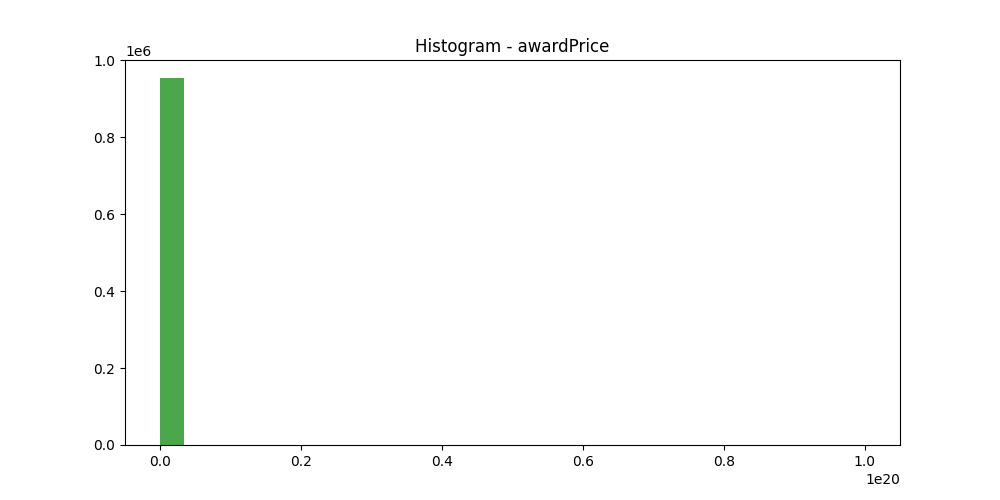
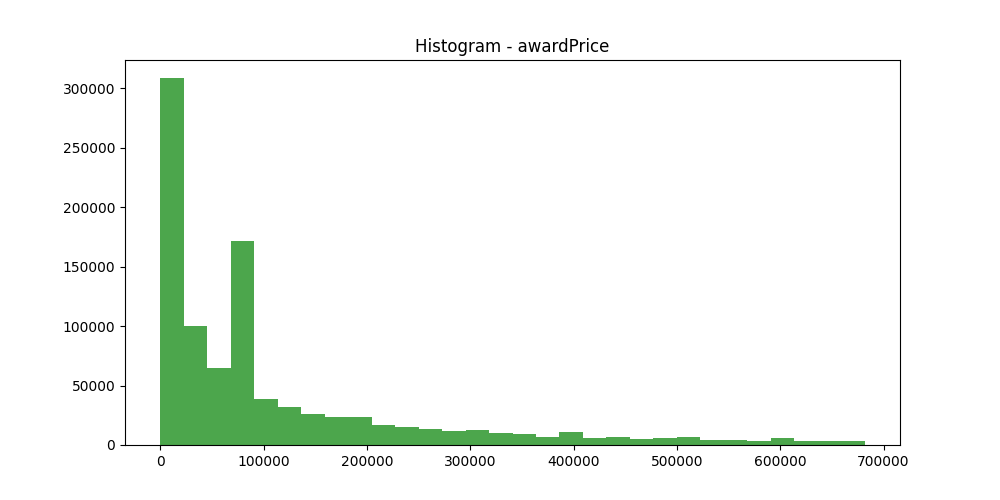
end of descriptive analysis

diff --git a/analyse_bivariee_manon.py b/analyse_bivariee_manon.py
@@ -16,7 +16,7 @@ import statsmodels.api as sm
 
 from pathlib import Path
 
-
+import scipy.stats as stats
 
 """
 
@@ -58,14 +58,45 @@ def verif_path(entire_path):
 
 
 
-def anova(xName, yName, allData):
-    #code taken from https://openclassrooms.com/fr/courses/7410486-nettoyez-et-analysez-votre-jeu-de-donnees/7428558-analysez-une-variable-quantitative-et-une-qualitative-par-anova
-    #colonne x quantitative, colonne y qualitative
-    
-   anova = smf.ols(xName+'~'+yName, data=allData).fit()
-   #print(sm.stats.anova_lm(anova, typ=2))
-   print(sm.stats.anova_lm(anova))
+# def anova(xName, yName, allData):
+#     #code taken from https://openclassrooms.com/fr/courses/7410486-nettoyez-et-analysez-votre-jeu-de-donnees/7428558-analysez-une-variable-quantitative-et-une-qualitative-par-anova
+#     #colonne x quantitative, colonne y qualitative
+#
+#    anova = smf.ols(xName+'~'+yName, data=allData).fit()
+#    #print(sm.stats.anova_lm(anova, typ=2))
+#    print(sm.stats.anova_lm(anova))
 
+def verif_anova(data, xName, yName):
+    # colonne x quantitative, colonne y qualitative
+
+    data_anova = data[[yName, xName]].dropna()
+
+    groupes = data_anova[yName].unique()
+    variances = []
+    for groupe in groupes:
+        variances.append(data_anova[data_anova[yName] == groupe][xName].var())
+
+    p_value_levene = stats.levene(*[data_anova[data_anova[yName] == groupe][xName] for groupe in groupes])[1]
+
+    p_value_shapiro = stats.shapiro(data_anova[xName])[1]
+
+    return p_value_levene > 0.05 and p_value_shapiro > 0.05
+
+
+def anova(xName, yName, allData):
+    # code taken from https://openclassrooms.com/fr/courses/7410486-nettoyez-et-analysez-votre-jeu-de-donnees/7428558-analysez-une-variable-quantitative-et-une-qualitative-par-anova
+    # colonne x quantitative, colonne y qualitative
+
+    print(verif_anova(allData, xName, yName))
+    if verif_anova(allData, xName, yName):
+        anova = smf.ols(xName + '~' + yName, data=allData).fit()
+        # print(sm.stats.anova_lm(anova, typ=2))
+        print(sm.stats.anova_lm(anova))
+    else:
+        data = allData[[yName, xName]].dropna()
+        F, p = stats.kruskal(*[group[xName].values for name, group in data.groupby(yName)])
+        print(xName, yName)
+        print(F, p)
 
 
 
@@ -89,7 +120,35 @@ def graph_violin(colonne_x, colonne_y, name_x, name_y, name_df, is_cleaned_data)
     plt.savefig(entire_path)
     
     #plt.show()
-    
+
+
+def graph_violin_log(colonne_x, colonne_y, name_x, name_y, name_df, df, is_cleaned_data):
+    # colonne_x qualitative, colonne_y quantitative
+
+    stats = df.groupby(name_x).agg({name_y: ['mean']})
+    print(stats)
+
+    plt.figure(figsize=(10, 6))
+
+    sns.violinplot(x=colonne_x, y=colonne_y, data=df)
+
+    for group, mean_value in stats.iterrows():
+        value = mean_value[name_y]['mean']
+        plt.axhline(value, color='r', linestyle='--', linewidth=1)
+
+    plt.yscale('log')
+
+    plt.title('Diagramme en violon log - ' + name_y + ' par ' + name_x)
+    plt.xlabel(name_x)
+    plt.ylabel(name_y)
+
+    entire_path = ''
+    if is_cleaned_data:
+        entire_path = '../descriptive_analysis/figs/bivarie/quantitativeVSqualitative/' + name_df + '/graph_violin_' + name_x + '_' + name_y + '.png'
+    else:
+        entire_path = 'figs/bivarie/quantitativeVSqualitative/' + name_df + '/graph_violin_' + name_x + '_' + name_y + '.png'
+    verif_path(entire_path)
+    plt.savefig(entire_path)
     
     
     
@@ -133,10 +192,10 @@ def analyse_lots(df_lots, is_cleaned_data):
     colonne_cancelled = df_lots['cancelled']
     colonne_contractorSme = df_lots['contractorSme']
     
-    graph_violin(colonne_typeOfContract, colonne_contractDuration, "typeOfContract", "contractDuration", nameDf, is_cleaned_data)
-    graph_violin(colonne_cpv, colonne_contractDuration, "cpv", "contractDuration", nameDf, is_cleaned_data)
-    graph_violin(colonne_typeOfContract, colonne_publicityDuration, "typeOfContract", "publicityDuration", nameDf, is_cleaned_data)
-    graph_violin(colonne_cancelled, colonne_awardPrice, "cancelled", "awardPrice", nameDf, is_cleaned_data)
+    graph_violin_log(colonne_typeOfContract, colonne_contractDuration, "typeOfContract", "contractDuration", nameDf, df_lots.copy(), is_cleaned_data)
+    graph_violin_log(colonne_cpv, colonne_contractDuration, "cpv", "contractDuration", nameDf, df_lots.copy(), is_cleaned_data)
+    graph_violin_log(colonne_typeOfContract, colonne_publicityDuration, "typeOfContract", "publicityDuration", nameDf, df_lots.copy(), is_cleaned_data)
+    graph_violin_log(colonne_cancelled, colonne_awardPrice, "cancelled", "awardPrice", nameDf, df_lots.copy(), is_cleaned_data)
     
     
     nouveau_dataframe = df_lots[['typeOfContract', 'contractDuration', 'publicityDuration', 'cpv', 'awardPrice', 'cancelled', 'contractorSme']].copy()

diff --git a/main.py b/main.py
@@ -36,15 +36,15 @@ df_names = pd.read_csv('data/Names.csv')
 
 
 if __name__ == '__main__':
-    # analyse_univariee_manon.execute_file(df_lots, df_buyers, df_suppliers, df_criteria, df_names, is_cleaned_data=False)
-    # analyse_bivariee_manon.execute_file(df_lots, is_cleaned_data=False)
-    #
-    # analyse_bivarie1.execute_file(df_lots, qualitatives_path, quantitatives_path)
-    # analyse1.execute_file(df_lots, univarie_path)
-    # single_var_agents.execute_file(df_agents, is_cleaned_data=False)
-    # single_var_lots.execute_file(df_lots, is_cleaned_data=False)
-    # cpv_single_var.execute_file(df_lots, is_cleaned_data=False)
-    # two_variables_analysis_award_dates.execute_file(df_lots, is_cleaned_data=False)
+    analyse_univariee_manon.execute_file(df_lots, df_buyers, df_suppliers, df_criteria, df_names, is_cleaned_data=False)
+    analyse_bivariee_manon.execute_file(df_lots, is_cleaned_data=False)
+
+    analyse_bivarie1.execute_file(df_lots, qualitatives_path, quantitatives_path)
+    analyse1.execute_file(df_lots, univarie_path)
+    single_var_agents.execute_file(df_agents, is_cleaned_data=False)
+    single_var_lots.execute_file(df_lots, is_cleaned_data=False)
+    cpv_single_var.execute_file(df_lots, is_cleaned_data=False)
+    two_variables_analysis_award_dates.execute_file(df_lots, is_cleaned_data=False)
 
     '''Nettoyage'''
     #Laisser commenté
@@ -52,8 +52,8 @@ if __name__ == '__main__':
 
     df_lots, new_agents_df, new_criteria_df, new_lotbuyers_df, new_lotsuppliers_df, new_names_df = nettoyage.nettoyage_manon.execute_file()
     df_lots = data_cleaning.clean_data(df_lots)
-    # print("end imputer", df_lots['awardDate'].head(10))
-    # df_lots = nettoyage.dates.execute_file(df_lots.reset_index())
+    print("end imputer", df_lots['awardDate'].head(10))
+    df_lots = nettoyage.dates.execute_file(df_lots.reset_index())
 
     df_lots.to_csv('data/Lots_cleaned.csv', index=False)
     new_agents_df.to_csv('data/Agents_cleaned.csv', index=False)

diff --git a/descriptive_analysis/main.py b/descriptive_analysis/main.py
@@ -29,16 +29,16 @@ df_criteria_cleaned = pd.read_csv('../data/Criteria_cleaned.csv')
 df_names_cleaned = pd.read_csv('../data/Names_cleaned.csv')
 
 if __name__ == '__main__':
-    # single_var_agents.execute_file(df_agents_cleaned, is_cleaned_data=True)
-    # single_var_lots.execute_file(df_lots_cleaned, is_cleaned_data=True)
-    # cpv_single_var.execute_file(df_lots_cleaned, is_cleaned_data=True)
-    #
-    # two_variables_analysis_award_dates.execute_file(df_lots_cleaned, is_cleaned_data=True)
-    # analyse_bivarie1.execute_file(df_lots_cleaned, qualitatives_path, quantitatives_path)
+    single_var_agents.execute_file(df_agents_cleaned, is_cleaned_data=True)
+    single_var_lots.execute_file(df_lots_cleaned, is_cleaned_data=True)
+    cpv_single_var.execute_file(df_lots_cleaned, is_cleaned_data=True)
+
+    two_variables_analysis_award_dates.execute_file(df_lots_cleaned, is_cleaned_data=True)
+    analyse_bivarie1.execute_file(df_lots_cleaned, qualitatives_path, quantitatives_path)
     analyse1.execute_file(df_lots_cleaned, univarie_path)
 
-    # analyse_univariee_manon.execute_file(df_lots_cleaned, df_buyers_cleaned, df_suppliers_cleaned, df_criteria_cleaned, df_names_cleaned, is_cleaned_data=True)
-    # analyse_bivariee_manon.execute_file(df_lots_cleaned, is_cleaned_data=True)
+    analyse_univariee_manon.execute_file(df_lots_cleaned, df_buyers_cleaned, df_suppliers_cleaned, df_criteria_cleaned, df_names_cleaned, is_cleaned_data=True)
+    analyse_bivariee_manon.execute_file(df_lots_cleaned, is_cleaned_data=True)
 
 
 

diff --git a/nettoyage/data_cleaning.py b/nettoyage/data_cleaning.py
@@ -209,6 +209,16 @@ def clean_data(df_lots):
             df_lots.at[i, 'awardEstimatedPrice'] = row['awardPrice']
         if pd.isna(row['awardPrice']):
             df_lots.at[i, 'awardPrice'] = row['awardEstimatedPrice']
+    columns_to_process = ['correctionsNb', 'numberTenders', 'numberTendersSme', 'awardEstimatedPrice', 'awardPrice',
+                          'contractDuration', 'publicityDuration']
+    df_lots['awardPrice'] = pd.to_numeric(df_lots['awardPrice'], errors='coerce')
+    Q1 = df_lots['awardPrice'].quantile(0.25)
+    Q3 = df_lots['awardPrice'].quantile(0.75)
+    IQR = Q3 - Q1
+
+    outliers_mask = (df_lots['awardPrice'] < (Q1 - 2.5 * IQR)) | (df_lots['awardPrice'] > (Q3 + 2.5 * IQR))
+    median = df_lots['awardPrice'].median()
+    df_lots.loc[outliers_mask, 'awardPrice'] = median
     # imputer awardEstimatedPrice and awardPrice by using iterative imputer by imputing only nan values
 
     print("start imputer")
@@ -218,9 +228,6 @@ def clean_data(df_lots):
     # df_lots_imputed = award_imputer.transform(df_lots.loc[:, ['awardEstimatedPrice', 'awardPrice']])
     # df_lots.loc[:, ['awardEstimatedPrice']] = df_lots_imputed[:, 0].round()
     # df_lots.loc[:, ['awardPrice']] = df_lots_imputed[:, 1].round()
-
-
-    # df_lots[columns].to_csv('data/Lots_cleaned.csv', index=False)
 
     return df_lots[columns]
 

diff --git a/analyse_bivarie1.py b/analyse_bivarie1.py
@@ -190,7 +190,6 @@ def execute_file(df_lots, qualitatives_path, quantitatives_path):
         ('jointProcurement', 'gpa'),
         ('jointProcurement', 'cancelled'),
         # ('fraAgreement', 'accelerated'),
-        ('fraAgreement', 'fraEstimated'),
         ('fraAgreement', 'contractorSme'),
         ('fraAgreement', 'subContracted'),
         ('fraAgreement', 'gpa'),
@@ -229,9 +228,11 @@ def execute_file(df_lots, qualitatives_path, quantitatives_path):
         ('topType', 'outOfDirectives'),
         ('topType', 'gpa'),
         ('cpv_name', 'renewal'),
+        ('cpv_name', 'contractorSme'),
         ('renewal', 'typeOfContract'),
         ('multipleCae', 'jointProcurement'),
         ('multipleCae', 'onBehalf'),
+        ('fraEstimated','fraAgreement'),
     ]
 
     numeric_pairs = [
